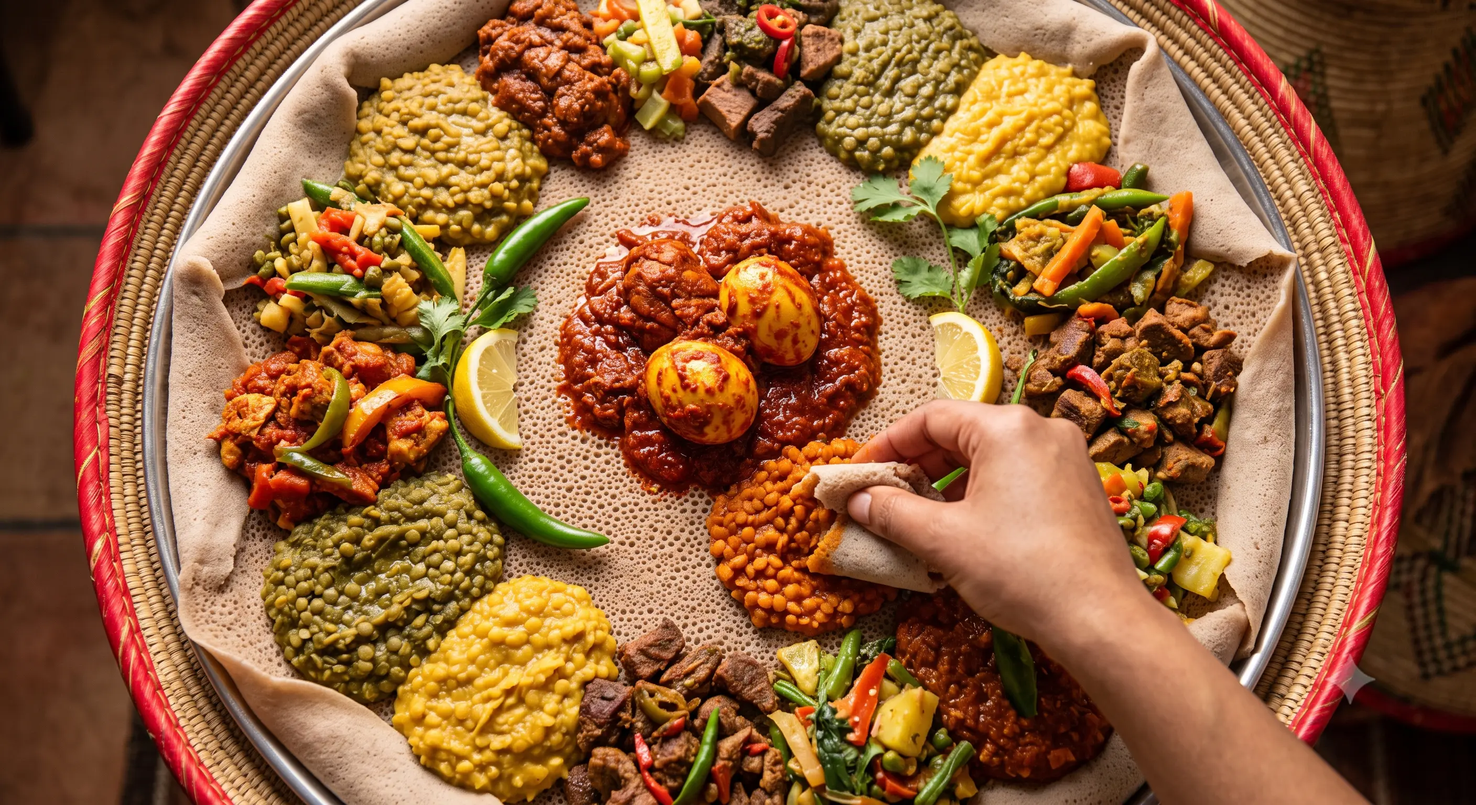
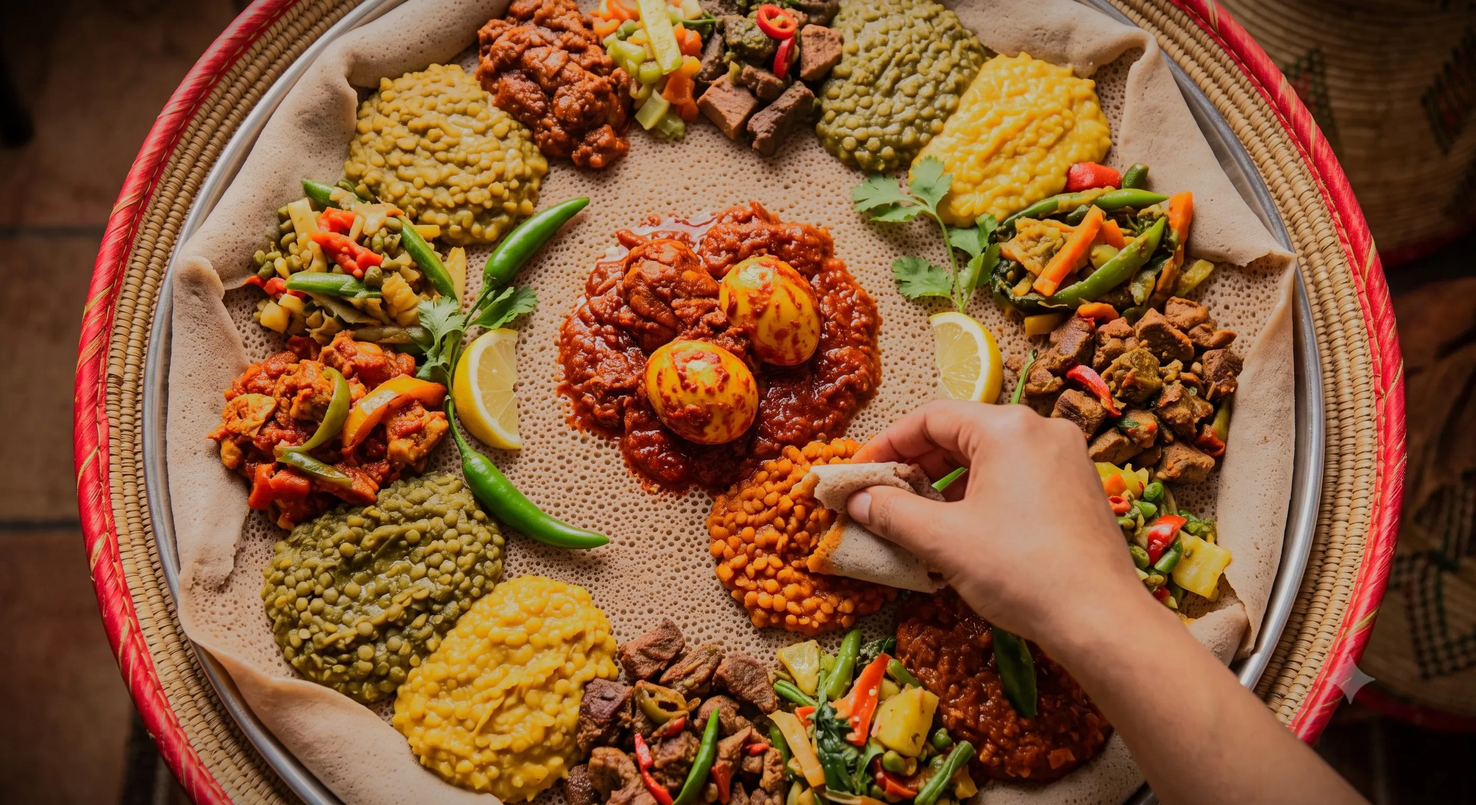
Ui Updates - Navbar theme update - Added tabs in Menu page

diff --git a/components/Navbar.tsx b/components/Navbar.tsx
@@ -83,17 +83,17 @@ function HamburgerIcon({ open }: { open: boolean }) {
       aria-hidden="true"
     >
       <span
-        className={`absolute block h-0.5 w-6 bg-[#2B6027] rounded-full transition-all duration-300 ease-in-out ${
+        className={`absolute block h-0.5 w-6 bg-brand-white rounded-full transition-all duration-300 ease-in-out ${
           open ? "rotate-45 translate-y-0" : "-translate-y-2"
         }`}
       />
       <span
-        className={`absolute block h-0.5 bg-[#2B6027] rounded-full transition-all duration-300 ease-in-out ${
+        className={`absolute block h-0.5 bg-brand-white rounded-full transition-all duration-300 ease-in-out ${
           open ? "w-0 opacity-0" : "w-6 opacity-100"
         }`}
       />
       <span
-        className={`absolute block h-0.5 w-6 bg-[#2B6027] rounded-full transition-all duration-300 ease-in-out ${
+        className={`absolute block h-0.5 w-6 bg-brand-white rounded-full transition-all duration-300 ease-in-out ${
           open ? "-rotate-45 translate-y-0" : "translate-y-2"
         }`}
       />
@@ -163,11 +163,13 @@ export function Navbar() {
           fixed top-0 inset-x-0 z-50
           transition-all duration-300 ease-in-out
           ${
-            (pathname === "/" || pathname === "/menu")
-              ? "bg-gradient-to-b from-white via-white/95 to-transparent pb-6"
+            pathname === "/" || pathname === "/menu"
+              ? scrolled
+                ? "bg-brand-deep-forest/95 backdrop-blur-md shadow-lg border-b border-brand-white/10 py-0"
+                : "bg-gradient-to-b from-black/50 via-black/20 to-transparent py-2" // Safe zone for text legibility
               : scrolled
-                ? "bg-white/95 backdrop-blur-md shadow-sm border-b border-[#2B6027]/10"
-                : "bg-white/80 backdrop-blur-sm"
+                ? "bg-brand-deep-forest/95 backdrop-blur-md shadow-lg border-b border-brand-white/10 py-0"
+                : "bg-brand-deep-forest/90 backdrop-blur-sm py-2"
           }
         `}
       >
@@ -182,30 +184,32 @@ export function Navbar() {
               aria-label="Love Grass — go to homepage"
               className="flex items-center gap-3 group focus-visible:outline-none focus-visible:ring-2 focus-visible:ring-[#C7C466] rounded-full"
             >
-              <div className="relative w-12 h-12 flex-shrink-0">
-                {/* <LogoMark /> */}
+              <div className="relative w-14 h-14 md:w-16 md:h-16 flex-shrink-0">
                 <Image
                   src="/lovegrass-logo.png"
                   alt="Love Grass Logo"
                   fill
-                  className="object-contain"
-                  sizes="60px"
+                  className="object-contain scale-110" // scale-110 counteracts built-in transparent padding in the image file
+                  sizes="80px"
                   priority
                 />
               </div>
 
               <span className="hidden sm:block leading-tight">
-                <span className="block text-[#2B6027] font-display font-bold text-xl tracking-tight group-hover:text-[#459934] transition-colors duration-200">
+                <span className="block text-brand-white font-display font-bold text-xl tracking-tight group-hover:text-brand-gold transition-colors duration-200">
                   LoveGrass
                 </span>
-                <span className="block text-[#516A3E] text-[10px] font-medium tracking-widest uppercase">
+                <span className="block text-brand-white/60 text-[10px] font-medium tracking-widest uppercase">
                   Restaurant
                 </span>
               </span>
             </Link>
 
             {/* Desktop navigation */}
-            <ul role="list" className="hidden md:flex items-center gap-1">
+            <ul
+              role="list"
+              className="hidden md:flex items-center gap-1 drop-shadow-md"
+            >
               {NAV_LINKS.map(({ label, href }) => (
                 <li key={href}>
                   <Link
@@ -215,11 +219,11 @@ export function Navbar() {
                     className={`
                       relative px-4 py-2 rounded-full text-sm font-medium tracking-wide
                       transition-colors duration-200 focus-visible:outline-none
-                      focus-visible:ring-2 focus-visible:ring-[#C7C466]
+                      focus-visible:ring-2 focus-visible:ring-brand-gold
                       ${
                         isActive(href)
-                          ? "text-[#2B6027] bg-[#2B6027]/8 font-semibold"
-                          : "text-[#2B6027] hover:text-[#C7C466] hover:bg-[#2B6027]/5"
+                          ? "text-brand-gold font-semibold"
+                          : "text-brand-white/80 hover:text-brand-gold hover:bg-white/5"
                       }
                     `}
                   >
@@ -227,7 +231,7 @@ export function Navbar() {
                     {isActive(href) && (
                       <span
                         aria-hidden="true"
-                        className="absolute bottom-1 left-1/2 -translate-x-1/2 w-1 h-1 rounded-full bg-[#C7C466]"
+                        className="absolute bottom-1 left-1/2 -translate-x-1/2 w-1 h-1 rounded-full bg-brand-gold"
                       />
                     )}
                   </Link>
@@ -239,9 +243,9 @@ export function Navbar() {
                 <Link
                   href="/contact"
                   id="nav-reserve-cta"
-                  className="btn-pill btn-primary text-sm"
+                  className="btn-hero-ghost text-sm px-6 py-2.5 relative overflow-hidden before:absolute before:inset-0 before:z-0 before:w-1/3 before:bg-gradient-to-r before:from-transparent before:via-white/40 before:to-transparent before:animate-shine"
                 >
-                  Reserve a Table
+                  <span className="relative z-10">Reserve a Table</span>
                 </Link>
               </li>
             </ul>
@@ -254,7 +258,7 @@ export function Navbar() {
               aria-expanded={mobileOpen}
               aria-label={mobileOpen ? "Close menu" : "Open menu"}
               onClick={() => setMobileOpen((v) => !v)}
-              className="md:hidden p-2.5 rounded-full hover:bg-[#2B6027]/8 transition-colors duration-200 focus-visible:outline-none focus-visible:ring-2 focus-visible:ring-[#C7C466]"
+              className="md:hidden p-2.5 rounded-full hover:bg-white/10 transition-colors duration-200 focus-visible:outline-none focus-visible:ring-2 focus-visible:ring-brand-gold"
             >
               <HamburgerIcon open={mobileOpen} />
             </button>
@@ -282,8 +286,8 @@ export function Navbar() {
         aria-label="Mobile navigation menu"
         className={`
           fixed top-16 inset-x-0 z-40 md:hidden
-          bg-white/98 backdrop-blur-xl border-b border-[#2B6027]/10
-          shadow-xl shadow-black/5
+          bg-brand-deep-forest border-b border-brand-white/10
+          shadow-xl shadow-black/20
           transform transition-all duration-300 ease-in-out
           ${
             mobileOpen
@@ -304,8 +308,8 @@ export function Navbar() {
                     transition-all duration-200
                     ${
                       isActive(href)
-                        ? "bg-[#2B6027] text-white shadow-md shadow-[#2B6027]/20 font-semibold"
-                        : "text-[#2B6027] hover:bg-[#2B6027]/8 hover:text-[#C7C466]"
+                        ? "bg-brand-gold/10 text-brand-gold shadow-md font-semibold"
+                        : "text-brand-white/80 hover:bg-brand-white/5 hover:text-brand-gold"
                     }
                   `}
                 >
@@ -313,7 +317,7 @@ export function Navbar() {
                   <span
                     aria-hidden="true"
                     className={`w-1.5 h-1.5 rounded-full flex-shrink-0 transition-colors duration-200 ${
-                      isActive(href) ? "bg-[#C7C466]" : "bg-[#2B6027]/20"
+                      isActive(href) ? "bg-brand-gold" : "bg-brand-white/20"
                     }`}
                   />
                   {label}
@@ -327,17 +331,19 @@ export function Navbar() {
             <Link
               href="/contact"
               id="mobile-reserve-cta"
-              className="btn-pill btn-primary w-full text-center text-base"
+              className="btn-hero-solid w-full text-center text-base py-3 relative overflow-hidden before:absolute before:inset-0 before:z-0 before:w-1/3 before:bg-gradient-to-r before:from-transparent before:via-white/40 before:to-transparent before:animate-shine"
               onClick={() => setMobileOpen(false)}
             >
-              Reserve a Table
+              <span className="relative z-10">Reserve a Table</span>
             </Link>
           </div>
         </nav>
       </div>
 
       {/* Spacer so page content clears the fixed nav (except on home and menu where content goes underneath) */}
-      {(pathname !== "/" && pathname !== "/menu") && <div className="h-16 md:h-20" aria-hidden="true" />}
+      {pathname !== "/" && pathname !== "/menu" && (
+        <div className="h-16 md:h-20" aria-hidden="true" />
+      )}
     </>
   );
 }

diff --git a/lib/menu-data.ts b/lib/menu-data.ts
@@ -40,7 +40,7 @@ export const MENU_CATEGORIES: MenuCategoryData[] = [
         tag: "Popular",
         description: "Crispy pastry pockets filled with spiced minced beef, lentils, and herbs. Served with a tangy awaze dip.",
         price: "AED 35",
-        image: "https://images.unsplash.com/photo-1601314167099-232775b2831f?auto=format&fit=crop&q=80&w=600",
+        image: "https://images.unsplash.com/photo-1541529086526-db283c563270?auto=format&fit=crop&q=80&w=600",
         imageAlt: "Crispy beef sambusa on a wooden board",
       },
       {
@@ -60,7 +60,7 @@ export const MENU_CATEGORIES: MenuCategoryData[] = [
         tag: "Signature",
         description: "Toasted teff injera generously spread with awaze (spicy pepper paste) and niter kibbeh (clarified butter).",
         price: "AED 40",
-        image: "https://images.unsplash.com/photo-1574880562694-5c914cd6b31c?auto=format&fit=crop&q=80&w=600",
+        image: "https://images.unsplash.com/photo-1509440159596-0249088772ff?auto=format&fit=crop&q=80&w=600",
         imageAlt: "Kategna - toasted injera with spiced butter",
       },
       {
@@ -108,7 +108,7 @@ export const MENU_CATEGORIES: MenuCategoryData[] = [
         tag: "Popular",
         description: "Finely chopped lean beef, warmed in spiced butter and mitmita. Served raw, rare, or cooked alongside ayib (fresh cheese).",
         price: "AED 110",
-        image: "https://images.unsplash.com/photo-1544025162-831451f21eb2?auto=format&fit=crop&q=80&w=600",
+        image: "https://images.unsplash.com/photo-1546833999-b9f581a1996d?auto=format&fit=crop&q=80&w=600",
         imageAlt: "Kitfo - Ethiopian beef tartare",
       },
       {
@@ -146,7 +146,7 @@ export const MENU_CATEGORIES: MenuCategoryData[] = [
         tag: "Signature",
         description: "Silky roasted chickpea stew, heavily spiced and served bubbling hot in a traditional clay pot.",
         price: "AED 60",
-        image: "https://images.unsplash.com/photo-1548943487-a2e4f43bb2bb?auto=format&fit=crop&q=80&w=600",
+        image: "https://images.unsplash.com/photo-1511690656952-34342bb7c2f2?auto=format&fit=crop&q=80&w=600",
         imageAlt: "Shiro stew in a clay pot",
       },
       {
@@ -176,7 +176,7 @@ export const MENU_CATEGORIES: MenuCategoryData[] = [
         tag: "Popular",
         description: "The ultimate vegan platter. A colorful array of all our plant-based stews and salads arranged on a bed of fresh injera.",
         price: "AED 85",
-        image: "https://images.unsplash.com/photo-1565557618462-81e5927c34d3?auto=format&fit=crop&q=80&w=600",
+        image: "https://images.unsplash.com/photo-1490645935967-10de6ba17061?auto=format&fit=crop&q=80&w=600",
         imageAlt: "Vegetarian mixed platter on injera",
       },
     ],

diff --git a/app/menu/page.tsx b/app/menu/page.tsx
@@ -32,10 +32,34 @@ export default function MenuPage() {
 
       <div className="relative z-10 max-w-7xl mx-auto px-4 sm:px-6 lg:px-8">
         
-        {/* Simple Title */}
-        <h1 className="font-display text-3xl md:text-4xl lg:text-5xl font-bold text-brand-white text-center mb-10">
-          Menu
-        </h1>
+        {/* Modern Menu Navigation Tabs */}
+        <div className="flex flex-col items-center justify-center mb-16 relative z-20">
+          {/* Hidden H1 for SEO since we are replacing the giant text with tabs */}
+          <h1 className="sr-only">Love Grass Menu</h1>
+          
+          <nav 
+            className="flex flex-wrap justify-center gap-2 p-2 bg-black/20 backdrop-blur-xl border border-brand-white/10 rounded-3xl md:rounded-full shadow-[0_8px_30px_rgb(0,0,0,0.4)]"
+            aria-label="Menu Categories"
+          >
+            {MENU_CATEGORIES.map((category) => (
+              <a
+                key={category.id}
+                href={`#${category.id}`}
+                className="group flex flex-col md:flex-row items-center md:gap-3 px-6 py-2.5 rounded-2xl md:rounded-full font-medium transition-all duration-300 hover:bg-brand-gold focus-visible:outline-none focus-visible:ring-2 focus-visible:ring-brand-gold"
+              >
+                <span className="text-brand-white/80 group-hover:text-brand-charcoal transition-colors text-sm md:text-base">
+                  {category.name}
+                </span>
+                <span 
+                  className="hidden md:inline-block text-[10px] font-bold uppercase tracking-widest text-brand-gold/70 group-hover:text-brand-charcoal/70 transition-colors" 
+                  lang="am"
+                >
+                  {category.amharic}
+                </span>
+              </a>
+            ))}
+          </nav>
+        </div>
 
         {/* Menu Categories */}
         <div className="space-y-0">

diff --git a/components/HeroCarousel.tsx b/components/HeroCarousel.tsx
@@ -132,8 +132,12 @@ export function HeroCarousel({ slides }: HeroCarouselProps) {
                     <Link href="/menu" className="btn-hero-solid w-full sm:w-auto" tabIndex={isActive ? 0 : -1}>
                       View Our Menu
                     </Link>
-                    <Link href="/contact" className="btn-hero-ghost w-full sm:w-auto" tabIndex={isActive ? 0 : -1}>
-                      Reserve a Table
+                    <Link 
+                      href="/contact" 
+                      className="btn-hero-ghost w-full sm:w-auto relative overflow-hidden before:absolute before:inset-0 before:z-0 before:w-1/3 before:bg-gradient-to-r before:from-transparent before:via-white/40 before:to-transparent before:animate-shine" 
+                      tabIndex={isActive ? 0 : -1}
+                    >
+                      <span className="relative z-10">Reserve a Table</span>
                     </Link>
                   </div>
 

diff --git a/components/ReviewsMarquee.tsx b/components/ReviewsMarquee.tsx
@@ -165,8 +165,7 @@ export function ReviewsMarquee() {
         /*
          * Gradient: brand-charcoal → brand-deep-forest
          */
-        background:
-          "linear-gradient(to bottom, #0f2416 0%, #141414 100%)",
+        background: "linear-gradient(to bottom, #0f2416 0%, #141414 100%)",
       }}
     >
       {/* ── Mesob pattern overlay ── */}
@@ -197,7 +196,6 @@ export function ReviewsMarquee() {
 
       {/* ── Content (above overlays) ── */}
       <div className="relative z-10">
-
         {/* Section header */}
         <div className="text-center mb-14 px-4 sm:px-6 lg:px-8">
           {/* Kicker */}

diff --git a/app/globals.css b/app/globals.css
@@ -27,6 +27,15 @@
   /* Typography scale */
   --font-sans:    var(--font-inter);
   --font-display: var(--font-playfair);
+
+  /* Animations */
+  --animate-shine: shine 6s infinite;
+  
+  @keyframes shine {
+    0% { transform: translateX(-150%) skewX(-25deg); }
+    15% { transform: translateX(250%) skewX(-25deg); }
+    100% { transform: translateX(250%) skewX(-25deg); }
+  }
 }
 
 /* ---------- Base resets ---------- */

diff --git a/app/layout.tsx b/app/layout.tsx
@@ -83,7 +83,7 @@ export default function RootLayout({
       data-scroll-behavior="smooth"
       className={`${inter.variable} ${playfairDisplay.variable} h-full antialiased`}
     >
-      <body className="min-h-full flex flex-col bg-texture">
+      <body className="min-h-full flex flex-col bg-texture" suppressHydrationWarning>
         <Navbar />
         <main className="flex-1">{children}</main>
       </body>
